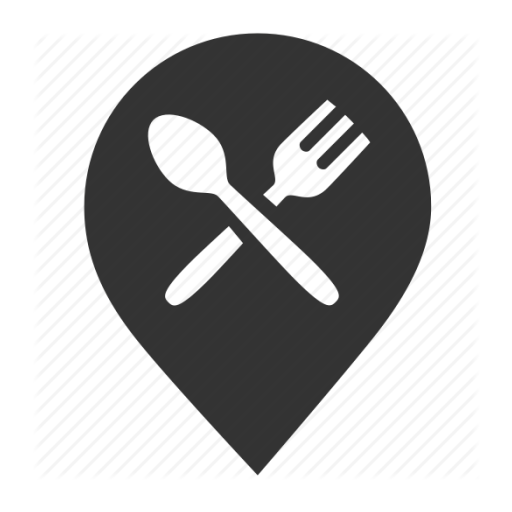
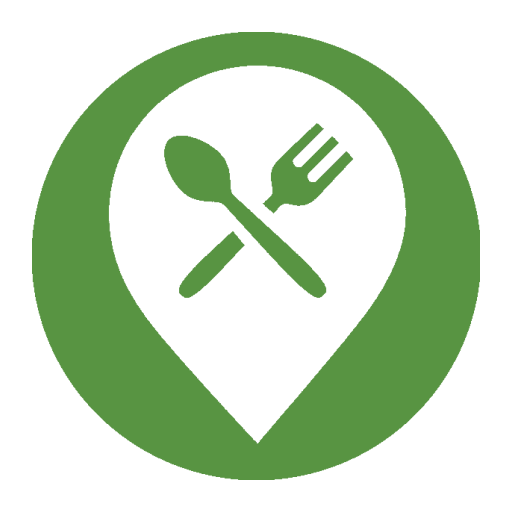
Changement icone et ajout lien entre page d'accueil et page carte

diff --git a/Client/app/src/main/java/com/example/restauclient/CarteActivity.java b/Client/app/src/main/java/com/example/restauclient/CarteActivity.java
@@ -3,20 +3,22 @@ package com.example.restauclient;
 import android.os.Bundle;
 import android.app.Activity;
 import android.view.Menu;
+import android.view.View;
 
 public class CarteActivity extends Activity {
 
     @Override
     protected void onCreate(Bundle savedInstanceState) {
         super.onCreate(savedInstanceState);
-        setContentView(R.layout.activity_main);
+        setContentView(R.layout.activity_carte);
     }
 
-    @Override
-    public boolean onCreateOptionsMenu(Menu menu) {
-        // Inflate the menu; this adds items to the action bar if it is present.
-        getMenuInflater().inflate(R.menu.activity_main, menu);
-        return true;
+    public void goToMain(View view) {
     }
-    
+
+    public void goToMenus(View view) {
+    }
+
+    public void goToCarte(View view) {
+    }
 }

diff --git a/Client/app/src/main/java/com/example/restauclient/MainActivity.java b/Client/app/src/main/java/com/example/restauclient/MainActivity.java
@@ -1,8 +1,10 @@
 package com.example.restauclient;
 
+import android.content.Intent;
 import android.os.Bundle;
 import android.app.Activity;
 import android.view.Menu;
+import android.view.View;
 
 public class MainActivity extends Activity {
 
@@ -18,5 +20,31 @@ public class MainActivity extends Activity {
         getMenuInflater().inflate(R.menu.activity_main, menu);
         return true;
     }
-    
+
+    public void switchToFrench(View v) {
+
+    }
+
+    public void switchToEnglish(View v) {
+
+    }
+
+    public void switchToItalian(View v) {
+
+    }
+
+    public void switchToGerman(View v) {
+
+    }
+
+    public void switchToSpanish(View v) {
+
+    }
+
+    public void goToCarte(View v) {
+        Intent intent = new Intent(this, CarteActivity.class);
+        startActivity(intent);
+    }
+
+
 }
